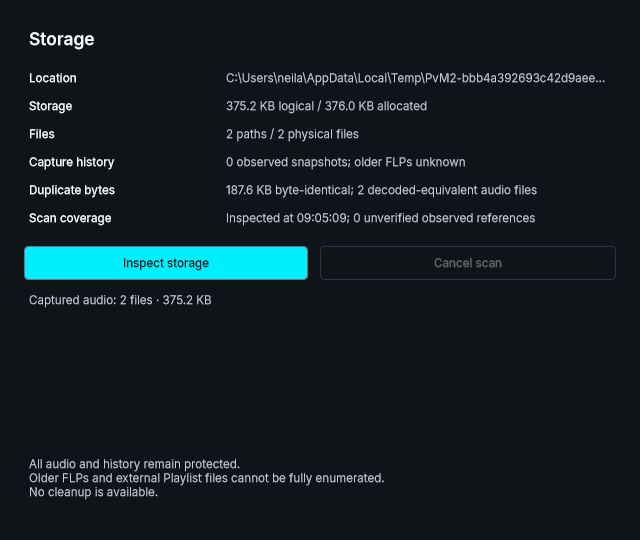
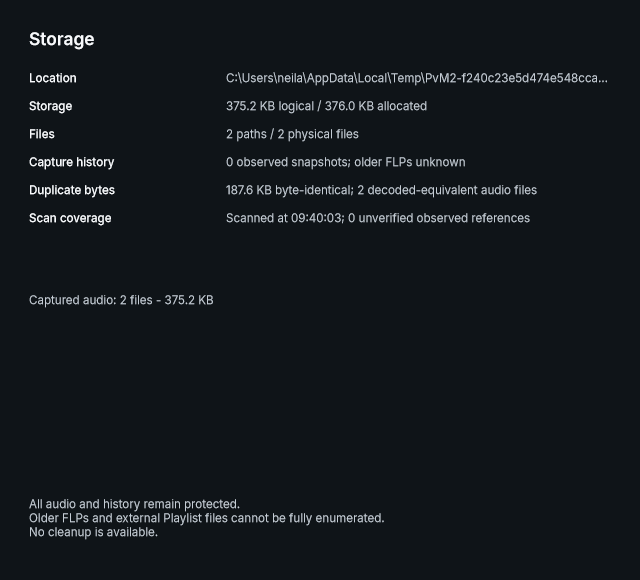
ui: scan storage automatically when its page opens

diff --git a/Source/UI/StorageInventoryPanel.h b/Source/UI/StorageInventoryPanel.h
@@ -20,28 +20,24 @@ public:
         applyTextRole(details,TextRole::helper,juce::Justification::topLeft);details.setName("storageCategories");addAndMakeVisible(details);
         applyTextRole(help,TextRole::helper,juce::Justification::topLeft);help.setName("storageProtection");
         help.setText("All audio and history remain protected.\nOlder FLPs and external Playlist files cannot be fully enumerated.\nNo cleanup is available.",juce::dontSendNotification);help.setDescription(help.getText());addAndMakeVisible(help);
-        inspectButton.setName("inspectStorage");inspectButton.setTooltip("Read file counts, sizes and duplicate identities for this selected scope. No files are changed.");inspectButton.onClick=[this]{begin();};addAndMakeVisible(inspectButton);
-        cancelButton.setName("cancelStorageScan");cancelButton.onClick=[this]{service.cancel();setValue(5,"Cancelled; inspect again");inspectButton.setEnabled(true);cancelButton.setEnabled(false);};addAndMakeVisible(cancelButton);cancelButton.setEnabled(false);
-        setValue(0,"This instance — inspect to show its path");setValue(5,"Not scanned");startTimerHz(10);
+        cancelButton.setName("cancelStorageScan");cancelButton.setTooltip("Stop the current storage scan. Reopening Storage starts a fresh scan.");
+        cancelButton.onClick=[this]{service.cancel();shown.reset();setValue(5,"Scan stopped. Reopen Storage to scan again.");cancelButton.setVisible(false);resized();};addChildComponent(cancelButton);
+        setValue(0,"This instance");setValue(5,"Storage is scanned when this page opens");startTimerHz(10);
     }
     ~StorageInventoryPanel()override{stopTimer();}
-    void bind(Provider next){service.cancel();provider=std::move(next);shown.reset();details.setText({},juce::dontSendNotification);for(size_t i=0;i<values.size();++i)setValue(i,{});setValue(5,"Scope changed; inspect again");}
-    void begin()
-    {
-        auto request=provider();juce::StringArray roots;for(const auto& root:request.roots)roots.add(root.getFullPathName());setValue(0,roots.joinIntoString("; "));
-        shown.reset();for(size_t i=1;i<values.size();++i)setValue(i,{});service.request(std::move(request));setValue(5,"Inspecting selected roots...");inspectButton.setEnabled(false);cancelButton.setEnabled(true);
-    }
+    void bind(Provider next){service.cancel();provider=std::move(next);clearResults();pageOpen=isShowing();if(pageOpen)begin();}
+    void visibilityChanged()override{updateVisibility();}
+    void parentHierarchyChanged()override{updateVisibility();}
     void poll()
     {
-        if(service.busy())return;const auto report=service.snapshot();if(!report || report==shown)return;shown=report;inspectButton.setEnabled(true);cancelButton.setEnabled(false);
+        updateVisibility();if(!pageOpen || service.busy())return;const auto report=service.snapshot();if(!report || report==shown)return;shown=report;cancelButton.setVisible(false);resized();
         setValue(1,juce::String(report->inventoryComplete?"":"At least ")+juce::File::descriptionOfSizeInBytes(static_cast<juce::int64>(report->physicalBytes))+" logical / "+juce::File::descriptionOfSizeInBytes(static_cast<juce::int64>(report->allocatedBytes))+" allocated");
         setValue(2,juce::String(report->files.size())+" paths / "+juce::String(report->physicalFiles)+" physical files");
         setValue(3,juce::String(report->observedCaptureSnapshots)+" observed snapshots; older FLPs unknown");
         setValue(4,juce::File::descriptionOfSizeInBytes(static_cast<juce::int64>(report->exactDuplicateBytes))+" byte-identical; "+juce::String(report->decodedEquivalentFiles)+" decoded-equivalent audio files");
-        const auto status=report->inventoryComplete?"Inspected":"Incomplete";
+        const auto status=report->inventoryComplete?"Scanned":"Incomplete";
         setValue(5,juce::String(status)+" at "+report->scannedAt.formatted("%H:%M:%S")+"; "+juce::String(report->missingReferences)+" unverified observed references");
         juce::String summary;for(const auto& [name,category]:report->categories)summary+=name+": "+juce::String(category.files)+" files - "+juce::File::descriptionOfSizeInBytes(static_cast<juce::int64>(category.bytes))+"\n";
-
         details.setText(summary,juce::dontSendNotification);details.setDescription(summary);
         juce::String uncertainty=help.getText()+"\nDecoded comparison skipped for "+juce::String(report->decodedSkipped)+" files.";for(const auto& issue:report->issues)uncertainty+="\n"+issue;for(const auto& issue:report->catalog.uncertainty)uncertainty+="\n"+issue;values[5].setDescription(uncertainty);values[5].setTooltip(uncertainty);
     }
@@ -49,16 +45,28 @@ public:
     {
         auto area=getLocalBounds().reduced(spacing::section);heading.setBounds(area.removeFromTop(controlGeometry::headingHeight));area.removeFromTop(spacing::related);
         for(size_t i=0;i<labels.size();++i){auto row=area.removeFromTop(controlGeometry::labelHeight);labels[i].setBounds(row.removeFromLeft(row.getWidth()/3));values[i].setBounds(row);area.removeFromTop(spacing::tight);}
-        area.removeFromTop(spacing::related);auto buttons=area.removeFromTop(controlGeometry::height);inspectButton.setBounds(buttons.removeFromLeft(buttons.getWidth()/2-spacing::related));buttons.removeFromLeft(spacing::related);cancelButton.setBounds(buttons);
+        if(cancelButton.isVisible()){area.removeFromTop(spacing::related);auto buttons=area.removeFromTop(controlGeometry::height);cancelButton.setBounds(buttons.removeFromLeft(buttons.getWidth()/2));}
         area.removeFromTop(spacing::related);help.setBounds(area.removeFromBottom(3*learnTypography::secondaryLineHeight));area.removeFromBottom(spacing::related);details.setBounds(area);
     }
     const storage::Report* displayedReport()const{return shown.get();}
     bool scanning()const{return service.busy();}
 private:
+    void clearResults(){shown.reset();details.setText({},juce::dontSendNotification);for(size_t i=0;i<values.size();++i)setValue(i,{});cancelButton.setVisible(false);}
+    void updateVisibility()
+    {
+        const bool open=isShowing();if(open==pageOpen)return;pageOpen=open;
+        if(open)begin();else{service.cancel();clearResults();setValue(5,"Storage is scanned when this page opens");}
+    }
+    void begin()
+    {
+        auto request=provider();clearResults();juce::StringArray roots;for(const auto& root:request.roots)roots.add(root.getFullPathName());setValue(0,roots.joinIntoString("; "));
+        service.request(std::move(request));setValue(5,"Scanning this instance's storage...");cancelButton.setVisible(true);resized();
+    }
     void timerCallback()override{poll();}
     void setValue(size_t index,const juce::String& text){values[index].setText(text,juce::dontSendNotification);values[index].setDescription(text);values[index].setTooltip(text);}
     Provider provider;storage::InventoryService service;std::shared_ptr<const storage::Report> shown;
+    bool pageOpen=false;
     juce::Label heading,details,help;std::array<juce::Label,6> labels;std::array<controls::EllipsisLabel,6> values;
-    controls::ActionButton inspectButton{"Inspect storage",controls::CommandIcon::none,true},cancelButton{"Cancel scan"};
+    controls::ActionButton cancelButton{"Stop scan"};
 };
 }

diff --git a/tests/storage_inventory_preview.cpp b/tests/storage_inventory_preview.cpp
@@ -1,6 +1,5 @@
 #include "AudioTestFiles.h"
 #include <UI/StorageInventoryPanel.h>
-#include <UI/Controls/PresentationSurface.h>
 using namespace m3;
 using namespace m3::ui;
 int main(int argc,char** argv){juce::ScopedJuceInitialiser_GUI gui;return runTest([&]{
@@ -8,24 +7,32 @@ int main(int argc,char** argv){juce::ScopedJuceInitialiser_GUI gui;return runTes
     REQUIRE(scope.getChildFile("segments").createDirectory().wasOk());writeTestWav(scope.getChildFile("segments/source.wav"),2,48000,std::vector<float>(48000,.125f));
     REQUIRE(scope.getChildFile("segments/source.wav").copyFileTo(scope.getChildFile("segments/retained.wav")));
     std::atomic<int> requested=0;StorageInventoryPanel panel([&]{++requested;storage::Request r;r.roots={scope};return r;});WorkspaceTheme theme;panel.setLookAndFeel(&theme);panel.setSize(640,540);
-    REQUIRE(requested==0);m3::ui::controls::ActionButton* action=nullptr;for(auto* child:panel.getChildren())if(child->getName()=="inspectStorage")action=dynamic_cast<m3::ui::controls::ActionButton*>(child);REQUIRE(action && action->keyPressed(juce::KeyPress(juce::KeyPress::returnKey)));const auto deadline=juce::Time::getMillisecondCounterHiRes()+10000;
-    while(!panel.displayedReport()){REQUIRE(juce::Time::getMillisecondCounterHiRes()<deadline);juce::MessageManager::getInstance()->runDispatchLoopUntil(10);panel.poll();}
+    class Window final:public juce::DocumentWindow
+    {
+    public:Window(juce::Component& content):DocumentWindow("Issue #8 - Storage Settings preview",background,closeButton){setUsingNativeTitleBar(true);setContentNonOwned(&content,false);centreWithSize(640,580);setResizable(false,false);}
+        void closeButtonPressed()override{juce::MessageManager::getInstance()->stopDispatchLoop();}
+    };
+    Window window(panel);window.setLookAndFeel(&theme);
+    const auto wait=[&](const std::function<bool()>& predicate){const auto deadline=juce::Time::getMillisecondCounterHiRes()+10000;while(!predicate()){REQUIRE(juce::Time::getMillisecondCounterHiRes()<deadline);juce::MessageManager::getInstance()->runDispatchLoopUntil(10);panel.poll();}};
+    panel.poll();REQUIRE(requested==0);
+    for(auto* child:panel.getChildren())REQUIRE(child->getName()!="inspectStorage");
+    window.setVisible(true);wait([&]{return panel.displayedReport()!=nullptr;});
     REQUIRE(requested==1 && panel.displayedReport()->physicalFiles==2 && panel.displayedReport()->reclaimableBytes==0);
     for(auto* child:panel.getChildren())REQUIRE(panel.getLocalBounds().contains(child->getBounds()));
-    const auto before=panel.displayedReport()->physicalBytes;panel.begin();while(panel.scanning()){REQUIRE(juce::Time::getMillisecondCounterHiRes()<deadline);juce::MessageManager::getInstance()->runDispatchLoopUntil(10);}panel.poll();REQUIRE(requested==2 && panel.displayedReport()->physicalBytes==before);
-    panel.bind([&]{storage::Request r;r.roots={scope.getChildFile("offline")};return r;});panel.poll();REQUIRE(!panel.displayedReport());
-    panel.begin();while(panel.scanning()){REQUIRE(juce::Time::getMillisecondCounterHiRes()<deadline);juce::MessageManager::getInstance()->runDispatchLoopUntil(10);}panel.poll();REQUIRE(!panel.displayedReport()->inventoryComplete);
-    panel.bind([&]{storage::Request r;r.roots={scope};return r;});panel.begin();while(panel.scanning()){REQUIRE(juce::Time::getMillisecondCounterHiRes()<deadline);juce::MessageManager::getInstance()->runDispatchLoopUntil(10);}panel.poll();
-    if(argc>1 && juce::String(argv[1])=="--review"){
-        class Window final:public juce::DocumentWindow
-        {
-        public:Window(juce::Component& content):DocumentWindow("Issue #8 - Storage Settings preview",background,closeButton){setUsingNativeTitleBar(true);setContentNonOwned(&content,false);centreWithSize(640,580);setResizable(false,false);setVisible(true);}
-            void closeButtonPressed()override{juce::MessageManager::getInstance()->stopDispatchLoop();}
-        };
-        Window window(panel);window.setLookAndFeel(&theme);juce::MessageManager::getInstance()->runDispatchLoop();window.setLookAndFeel(nullptr);
-    }else{
+    for(int i=0;i<20;++i)panel.poll();REQUIRE(requested==1);
+    const auto before=panel.displayedReport()->physicalBytes;window.setVisible(false);panel.poll();REQUIRE(!panel.scanning() && !panel.displayedReport());
+    window.setVisible(true);wait([&]{return panel.displayedReport()!=nullptr;});REQUIRE(requested==2 && panel.displayedReport()->physicalBytes==before);
+    panel.bind([&]{storage::Request r;r.roots={scope.getChildFile("offline")};return r;});REQUIRE(!panel.displayedReport());wait([&]{return panel.displayedReport()!=nullptr;});REQUIRE(!panel.displayedReport()->inventoryComplete);
+    window.setVisible(false);panel.poll();panel.bind([&]{++requested;storage::Request r;r.roots={scope};return r;});panel.poll();REQUIRE(requested==2 && !panel.scanning());
+    window.setVisible(true);wait([&]{return panel.displayedReport()!=nullptr;});REQUIRE(requested==3);
+    panel.bind([&]{++requested;storage::Request r;r.roots={scope};return r;});
+    m3::ui::controls::ActionButton* stop=nullptr;for(auto* child:panel.getChildren())if(child->getName()=="cancelStorageScan")stop=dynamic_cast<m3::ui::controls::ActionButton*>(child);REQUIRE(stop && stop->isVisible());stop->onClick();
+    for(int i=0;i<20;++i)panel.poll();REQUIRE(requested==4 && !panel.scanning() && !panel.displayedReport());
+    window.setVisible(false);panel.poll();window.setVisible(true);wait([&]{return panel.displayedReport()!=nullptr;});REQUIRE(requested==5);
+    if(argc>1 && juce::String(argv[1])=="--review")juce::MessageManager::getInstance()->runDispatchLoop();
+    else{
         const auto output=juce::SystemStats::getEnvironmentVariable("PREVERB_STORAGE_PREVIEW_OUTPUT",{});if(output.isNotEmpty()){const juce::File destination(output);REQUIRE(destination.getParentDirectory().createDirectory().wasOk());auto stream=destination.createOutputStream();REQUIRE(stream && juce::PNGImageFormat().writeImageToStream(panel.createComponentSnapshot(panel.getLocalBounds()),*stream));}
-        std::cout<<"Storage panel: explicit inspection, worker publication, protected summary and contained production-token layout passed.\n";
+        std::cout<<"Storage panel: automatic page-open scan, hidden-page inactivity, no refresh loop, reopen refresh and scope rebinding passed.\n";
     }
-    panel.setLookAndFeel(nullptr);
+    window.setLookAndFeel(nullptr);panel.setLookAndFeel(nullptr);
 });}

diff --git a/docs/validation/2026-11-06-issue-8-inventory.md b/docs/validation/2026-11-06-issue-8-inventory.md
@@ -20,7 +20,7 @@ Native targets: `preverb_asset_inventory_test` and `preverb_storage_inventory_pr
 - Dependency fixtures exercise actual capture manifests/contexts, distinct historical/default/unused-library/swell IRs, disabled/frozen retained renders, export history, zero-swell/default-empty state, schema-1 uncertainty, envelopes 1–8 and unsupported processor/capture/Export/engine refusal. No restore/generation service is called by the readers.
 - Inventory fixtures prove exact totals, unchanged prior hashes, hardlink/overlapping-root physical counts, exact versus signed-zero decoded identity, a real NTFS junction exclusion, missing and exclusively locked roots/files, read-only input, entry/hash/metadata bounds, entity XML refusal, Unicode paths, cancellation and unknown portable marker refusal. A junction points only into another disposable fixture directory and is removed before fixture teardown; no user data is used.
 - Catalog fixtures rebuild without a prior index, retain active export pins and keep arbitrary unknown assets protected. Service fixtures supersede requests and clear publication on cancellation.
-- Component fixtures invoke the shared button's keyboard binding, verify explicit scan requests, contained geometry, populated summaries, stable repeat scans and rejection of stale results after scope rebinding. Native screenshots preserve existing fonts/roles and the helper notice uses explicit lines rather than shrinking to fit.
+- Component fixtures verify automatic page-open/reopen scan requests, hidden-page inactivity, no polling refresh loop, stopping without automatic retry, contained geometry, populated summaries and rejection of stale results after scope rebinding. Native screenshots preserve existing fonts/roles and the helper notice uses explicit lines rather than shrinking to fit.
 
 Native Release: **12/12 affected CTest checks passed**; after final inventory/composition changes the **2/2 new targets passed again**, and added reader-boundary/Unicode cases passed in a final reader-only run. No native failure remains. Initial fixture compilation needed the explicit capture-session include; the corrected tests ran against the production APIs.
 
@@ -30,8 +30,10 @@ UI standards check passes with no token/debt baseline changes. OpenSpec strict v
 
 ## Owner review and limits
 
[2 lines of base64/hex data omitted]
 
 No user assets were scanned by these fixtures. No production capture/DSP/state identity, root default, asset writer or existing Settings/creative controls changed. No on-disk catalog, migration, packing, relink, compression, quarantine or deletion was added. No FL Studio, second-profile/PC, real offline drive, power-loss/disk-full or complete DPI matrix result is claimed. Cooperative scan budgets do not bound a blocking OS storage call. Offline FLP/export references and cross-process leases remain unknown and protected.
 
 Phase 1 is not fully complete until task 2.4's native review and integration are complete. Later phases remain separately gated. Do not sync/archive/merge this change as part of this checkpoint.
+
+Automatic-scan review revision: both affected native targets passed (2/2); lifecycle evidence is retained in `out/phase1-auto-scan-test.log`. Prior component-button invocation evidence is superseded by page-open lifecycle checks. No additional backend/DSP scope changed.

diff --git a/docs/development/asset-inventory.md b/docs/development/asset-inventory.md
@@ -24,12 +24,12 @@ Exact-file SHA-256 groups are distinct from streaming decoded float32 equivalenc
 
 Limits per request: 128 roots/observations, 4096 explicit active/recovery pins, 20,000 directory entries, depth 12, 16 GiB hash-byte default, 30-second cooperative processing budget, 8 MiB per manifest/creative input, 64 MiB retained scan metadata and 32 MiB maximum decoded-file input. Reference accounting caps observed edges; exceeding a limit remains uncertain/protected. Small bounded audio pages are hashed off callback. Processing limits and cancellation are checked between reads/entries; synchronous Windows storage calls can still wait for the OS. No hard I/O deadline or callback work is claimed.
 
-The service uses request epochs to reject stale publication after cancellation/rebinding. Cancellation clears the old report so it cannot appear under a new scope. The worker owns scans; no file I/O is triggered by hover, painting or audio callbacks. Closing the preview waits for its worker to settle; no maintenance lock touches audio processing.
+The service uses request epochs to reject stale publication after cancellation/rebinding. Cancellation clears the old report so it cannot appear under a new scope. The worker owns scans; page visibility schedules one request. Polling, hover, painting and audio callbacks never reschedule a scan. Closing the preview waits for its worker to settle; no maintenance lock touches audio processing.
 
 The catalog is reconstructed in memory from supplied accepted/prior observations, immutable capture manifests, managed aliases and explicit job/reader/recovery pins. No catalog/index file is written. A missing/corrupt prior index simply lacks authority; rebuilding preserves the blanket legacy/unknown-external-reference protection. Observed manifest publication does not prove the host saved an FLP. Unobserved FLPs, external Playlist copies and cross-process jobs/readers remain explicitly unknown. No catalog count can make any asset eligible for reclamation.
 
 ## Preview and backup responsibility
 
-`preverb_storage_inventory_preview --review` opens the staged composition using existing FlatSurface, text roles, EllipsisLabel, ActionButton and comfortable geometry. Inspect is explicit and read-only; Cancel leaves incomplete scope clear. Full paths and coverage details remain accessible when values ellipsize. No new styling token, control variant, file chooser, Pack, Relink or cleanup command is introduced. The component/provider binding tests cover keyboard invocation, worker results and scope changes. Production Settings integration remains task 2.4's owner-review gate.
+`preverb_storage_inventory_preview --review` opens the staged composition using existing FlatSurface, text roles, EllipsisLabel, ActionButton and comfortable geometry. Opening the page automatically starts one read-only scan. Closing it cancels in-flight work; reopening refreshes the figures. There is no Inspect or manual refresh button and no continuous scanning while the page remains open. Stop scan is shown only while work is active; stopping does not restart the scan until the page is reopened. Full paths and coverage details remain accessible when values ellipsize. No new styling token, control variant, file chooser, Pack, Relink or cleanup command is introduced. The component/provider binding tests cover automatic open/reopen scanning, hidden-page inactivity, stop-without-retry, worker results and scope changes. Production Settings integration remains task 2.4's owner-review gate.
 
 Keep the FLP and its complete managed instance tree, including old source manifests/chunks, IRs, wet results and exports. The plugin's 256 MiB PCM working limit is not a disk-history limit. Never remove older or duplicate files because the inventory cannot prove that an older/offline FLP no longer needs them. Migration, packing, writer branches, compression and any scratch administration require their later reviewed phases.
